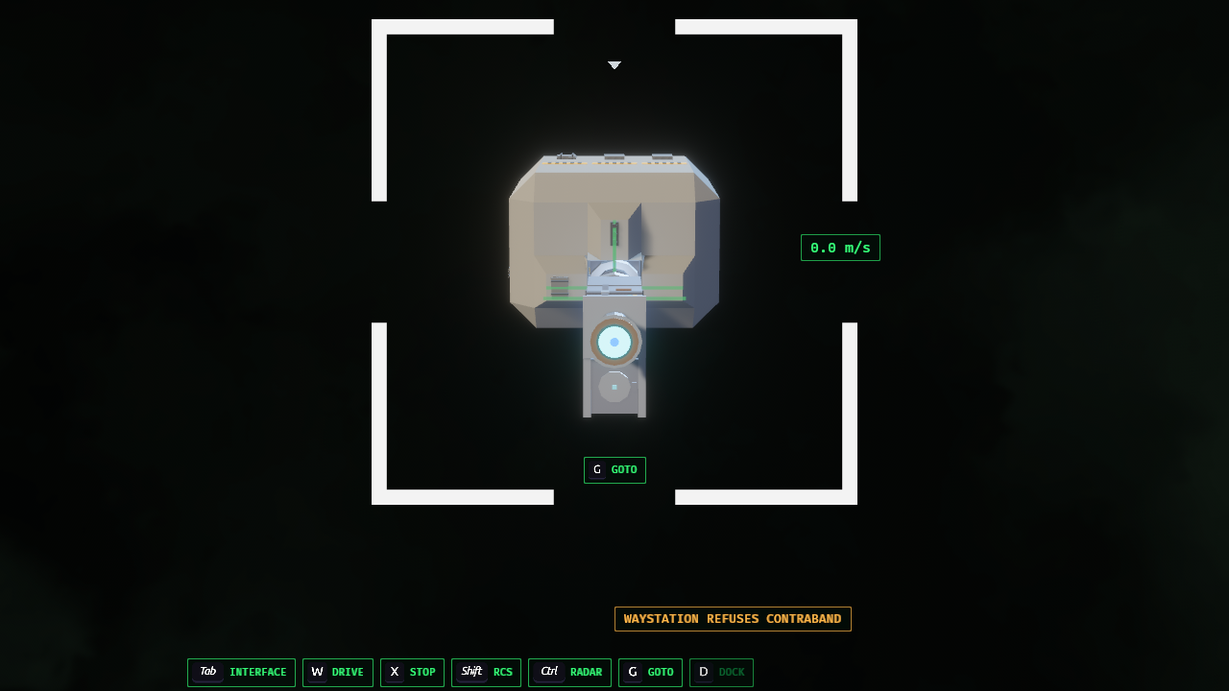
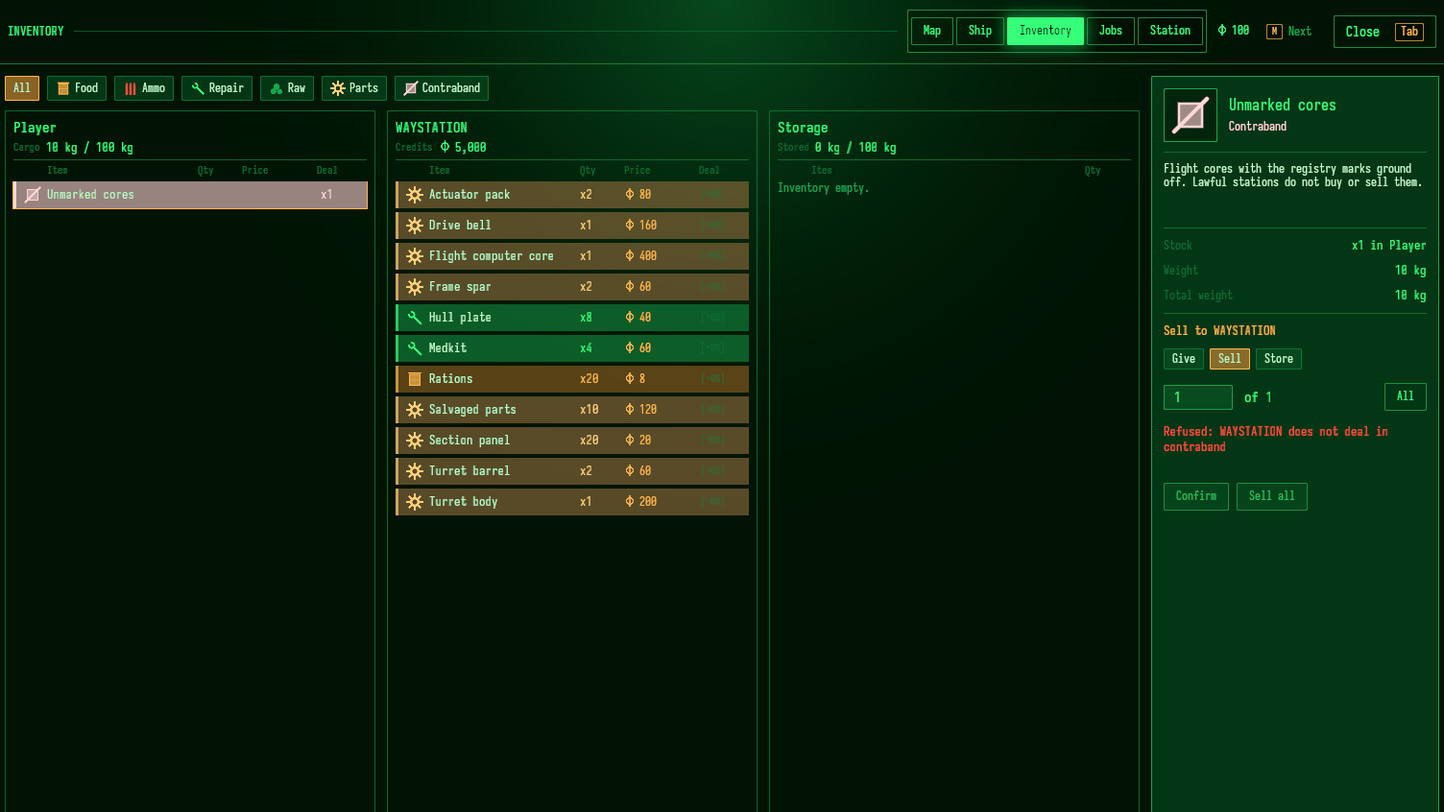
Document contraband as a restricted trade good
The wiki, the creator reference, docs/sections.md and the v0.18.0 post
now state the rule: every station docks you, and a lawful station's
market does not buy or sell contraband. The changelog keeps one
Gameplay entry and one Modding entry for it.

The news still is a cut of the refused Sell form that
system_contraband_trade shoots, and its CUTS row names the new source
and window.

diff --git a/scripts/gen-web-screenshots.py b/scripts/gen-web-screenshots.py
@@ -316,7 +316,7 @@ CUTS = [
     ("news-0180-key-row.png",         "key-hints-weapons.png",        "screenshot_key_hints",   (460, 432, 1152, 648)),
     ("news-0180-pad-row.png",         "key-hints-pad-weapons.png",    "screenshot_key_hints",   (505, 432, 1152, 648)),
     ("news-0180-refine.png",          "station-refine-form.png",      "system_station_refine",  (610, 92, 1104, 621)),
-    ("news-0180-contraband.png",      "contraband-dock-refusal.png",  "system_contraband_dock", (320, 350, 1280, 720)),
+    ("news-0180-contraband.png",      "contraband-trade-refusal.png", "system_contraband_trade", (208, 18, 1504, 846)),
     ("news-0180-station-control.png", "job-recover-control.png",      "system_job_recover",     (0, 360, 1280, 720)),
     ("news-0180-no-medkit.png",       "job-distress-no-medkit.png",   "system_job_distress",    (320, 360, 1280, 720)),
     ("news-0180-second-tier.png",     "station-swap-intake-card.png", "system_station_swap_intake", (0, 0, 1920, 1080)),

diff --git a/web/src/wiki/hud.md b/web/src/wiki/hud.md
@@ -63,7 +63,7 @@ The flight instruments sit around the ship, not in a status bar:
 - **ORBIT ring and radius spoke** - while you hold an orbit, a world-space ring marks the orbit plane and a thin spoke runs from the well to your ship with the current radius.
 - **Predicted path, GOTO guide and flip gate** - while GOTO or STOP flies, a thin cyan line runs ahead of your ship along the path the autopilot will fly. The game finds it by flying the autopilot's own controls ahead of your ship for up to 30 seconds, with the pull of the dominant gravity well, so the line can curve - and, on a GOTO routing around a rock or planetoid, bend around the bodies the forecast saw sitting in the way when it started: it is the route the computer will actually fly, not a plain straight-line guess. It stops where the leg ends or 30 seconds out, whichever comes first. GOTO adds a dim straight guide from the end of that curve to where the target is now, so a long leg still points at its target. The guide is still not a forecast: it only points at the target, and it never bends. It shows as soon as GOTO engages, from your ship, before the first forecast is ready. A ring and a `FLIP <n>s` countdown stand on the curve where the brake flip starts - the FINAL leg's own flip; swinging wide of a body on the way there never spends it. They go once you reach the flip or the brake starts. On a GOTO they stay gone for the rest of that order, even if the autopilot plans a new flip; a new GOTO, also to the same target, shows them again. The curve hides while the target changes course or spin or a gravity well moves, and while you are docked; the guide stays. It returns with a new forecast once the target holds its new course. Both clear when the autopilot lets go.
 - **Keybind dock** - a row of icon chips along the bottom of the screen that shows the keys that apply right now and nothing else. Five core chips always sit left of the screen's centre line while you fly: INTERFACE (<kbd>Tab</kbd>), DRIVE (<kbd>W</kbd>), STOP, RCS and RADAR. The rest join right of the centre line, in this order, only while there is something for them to do: GOTO while you hold a travel lock (not your docked partner), ORBIT near a gravity well or while an orbit flies, CANCEL while the autopilot is engaged, DOCK while your lock carries a docking port or you are docked, HELM (<kbd>H</kbd>) while you are docked, MINE while your ship carries a bound mining section, AIM (raise weapons) while your ship carries a turret, torpedo bay or railgun, and FIRE, TORPEDO and RAILGUN while the weapons are hot and that section has a key. A core chip does not move when a chip joins the row; the new chip pushes only the chips right of it. Only when the chips right of the centre line need more than half the screen does the whole row move left, so the screen edge cuts no chip. A shown chip you cannot press right now draws dark: DOCK through the approach until the port pair lines up, or while a station refuses; RCS while a scenario withholds it or the magazine is empty. <kbd>]</kbd> and <kbd>[</kbd> step the component lock (the wheel too, weapons raised) and <kbd>Q</kbd>/<kbd>E</kbd> roll; the dock has no chip for either. Docked to a pair you do not fly, the mode chip reads NEUTRAL, HELM is lit, and the verbs it would give back stay on the dock, dark; while you hold the helm the HELM chip is inverted. While the game cannot measure the pair (`HELM FAULT`) or a living station holds the helm (`STATION HELM`), the HELM chip stays dark and the mode chip says why, unless you hold the helm and can still hand it back; the blocked verbs stay dark until that ends. Each chip shows the real KEYCAP for the key that drives it plus the verb word, in full phosphor - or inverted while that verb is what the ship is doing (an engaged ORBIT stays inverted even though you can no longer start one; DRIVE while you hold the burn; AIM while the weapons are hot; FIRE while a trigger is down). The keycaps follow your hands: after a gamepad button or a stick push the row draws the gamepad buttons, and after a key or a mouse button it draws the keys again. On a gamepad DOCK and HELM are chords, so their chips draw two caps: the RCS button, then the GOTO or ORBIT button. FIRE, TORPEDO, RAILGUN and MINE draw the key or button you gave that section in the Ship pane; a section with no gamepad binding keeps its key. While you hold the RCS key (<kbd>Shift</kbd>) the RCS chip is inverted and the STOP chip reads MATCH, because <kbd>X</kbd> is then the MATCH chord; it is dark when MATCH would refuse (no travel lock, no RCS, an empty magazine). The chip names what the key does now: with <kbd>Shift</kbd> up it reads STOP, also while a MATCH flies, because plain <kbd>X</kbd> then brakes and replaces the match; it is inverted only while its own word flies, so MATCH inverts while a match flies and <kbd>Shift</kbd> is held. A chip pulses gold when a scenario wants you to use it, and a chip the scenario points at stays on the row even before it applies, dark - that is how a tutorial points at a key before you can press it. The anchored **verb cues** are the same chip parked on the thing you would act on - the ORBIT keycap on a gravity well, the GOTO keycap on your aim lock.
-- **HUD notice** - a one-line amber box above the dock, its left edge on the screen midline, clear of the comms panel. A station's dock refusal (`<NAME> REFUSES DOCKING`, `<NAME> REFUSES CONTRABAND`, `<NAME> DOCK OCCUPIED`) posts here once, holds for four seconds of game time (it pauses with the game), then fades, with one interface cue. A held job whose work is done posts `JOB-1 done: hand in at STN-1` the moment it is done, naming the poster by its chart code and no credits: the reward is paid at the hand-in. A dock with a distress caller with no medkit in your hold posts `NO MEDKIT ABOARD`, once per dock. A refused or cut-short [MATCH](../flight-autopilot/#the-autopilot-flies-the-hull) posts why, such as `MATCH: NO TARGET` or `MATCH: RCS EMPTY`. A DOCK press that does nothing posts why, such as `DOCK: NO LOCK` or `DOCK: TOO FAR` (see [Docking](../sections/docking/#who-lets-you-dock)). In a generated world, crossing into another sector posts its coordinate as the [chart](../interface/#the-map) labels it, `SECTOR (1, 0, 0)`, with `- FIRST VISIT` added for a sector your chart had not recorded; a New Game or a Load starts you in a sector and posts nothing. One slot, no queue: a new line replaces the one showing. The notice holds its place: a GOTO or ORBIT cue under it moves aside until the notice ends.
+- **HUD notice** - a one-line amber box above the dock, its left edge on the screen midline, clear of the comms panel. A station's dock refusal (`<NAME> REFUSES DOCKING`, `<NAME> DOCK OCCUPIED`) posts here once, holds for four seconds of game time (it pauses with the game), then fades, with one interface cue. A held job whose work is done posts `JOB-1 done: hand in at STN-1` the moment it is done, naming the poster by its chart code and no credits: the reward is paid at the hand-in. A dock with a distress caller with no medkit in your hold posts `NO MEDKIT ABOARD`, once per dock. A refused or cut-short [MATCH](../flight-autopilot/#the-autopilot-flies-the-hull) posts why, such as `MATCH: NO TARGET` or `MATCH: RCS EMPTY`. A DOCK press that does nothing posts why, such as `DOCK: NO LOCK` or `DOCK: TOO FAR` (see [Docking](../sections/docking/#who-lets-you-dock)). In a generated world, crossing into another sector posts its coordinate as the [chart](../interface/#the-map) labels it, `SECTOR (1, 0, 0)`, with `- FIRST VISIT` added for a sector your chart had not recorded; a New Game or a Load starts you in a sector and posts nothing. One slot, no queue: a new line replaces the one showing. The notice holds its place: a GOTO or ORBIT cue under it moves aside until the notice ends.
 
 <figure class="figure">
     <!-- Capture: assets/wiki-hud-shell.png -->

diff --git a/web/src/wiki/interface.md b/web/src/wiki/interface.md
@@ -323,7 +323,7 @@ Docked with a derelict wreck or a neutralized ship, the Inventory pane shows a s
      in crates/nova_scenario/src/objects/ship_design.rs.
      Take and Give: crates/nova_gameplay/src/inventory.rs `plan_item_transfer`;
      Take credits: `plan_credit_take`, applied by
-     `apply_credit_take_commands`; Take all: `apply_take_all_commands`; Buy and Sell: `plan_item_trade`, prices
+     `apply_credit_take_commands`; Take all: `apply_take_all_commands`; Buy and Sell: `plan_item_trade` (a lawful market: `market_deals_in`), prices
      `ItemPrice::buy_cr` and `ItemPrice::sell_cr` of `ItemDesign::reference_price`, balance `ShipCredits` from
      `SpaceshipConfig::credits`; Refine: `plan_item_refine` over `ItemDesign::refine`,
      the recipe `GameItems::refined_from`, the gate `REFINE_ADVANCEMENT` in
@@ -343,7 +343,7 @@ The Inventory pane lists what your ship carries in the left column and, while yo
 | **Repair** | Material a repair or a rescue consumes: hull plates and medkits. |
 | **Raw** | Mined or salvaged bulk material. |
 | **Parts** | Scavenged objects for a story, an objective or trade. |
-| **Contraband** | Goods a lawful station refuses a dock over. See [Docking](../sections/docking/#who-lets-you-dock). |
+| **Contraband** | Goods a lawful station's market does not buy or sell. See [Buy and sell](#buy-and-sell). |
 
 Click an item to inspect it, or step through the shown items with <kbd>[</kbd> / <kbd>]</kbd>, your column first; a step opens the same form a click does. The inspector shows its category, what it is, how many the selected ship carries and the weight of one item. A PDC round weighs 0.2 kg. While a Take, Give, Buy, Sell or Jettison is open, **Total weight** shows the weight of the quantity you chose: 2 hull plates read 20 kg however many you carry. The description keeps four lines, so the rows under it stay in place as you change items. A longer one is cut off with an `I Full text` cue: point at it, or press <kbd>I</kbd>, to read all of it. <kbd>I</kbd> again, or another item, closes it. You can rebind <kbd>I</kbd> as **Item Details** in **Settings > Controls > INVENTORY**.
 
@@ -388,6 +388,8 @@ count pays its share, rounded up for a Buy and down for a Sell.
 | Unmarked cores | 300 cr | 240 cr |
 
 A living generated station or ship computes its own prices from the reference when you trade: its stock against the stock it started with (scarce goods cost and pay more, a glut less), the type of the cluster it stands in (ore is cheap where asteroids are many and dear among planets), and what its civilization's ships do. While the partner trades, each row shows the **Price** of one item, what the partner pays for yours and asks for its own, with a **Deal** badge of the percent off the reference: green when it favours you (a bid over the reference, an ask under it), amber when not. The PDC round's row shows the price of its lot of 100, as `10 cr / 100`. Select an item and the inspector shows the **Reference**, **Pays** and **Asks** with the same percent, each as `4 cr / 3 cr` for a lot of one or `10 cr / 100 | 7 cr / 100` for the PDC round's lot of 100, and the **Scarcity**, **Cluster** and **Civilization** factors that made it, with their **Total**, marked `clamped` when the price hit its limit. Under the columns, a generated trader's **MARKET** strip names the three items it pays most over the reference for and the three it sells cheapest among what it holds, its restock gap (the item furthest under its target, a meter of stock against target, and the play minutes until it is full) and, while its civilization refuses you, a red **REFUSED** badge with the minutes left or none when only a settlement ends it. The interface title row shows the play clock while a world runs. A station or ship placed by a scenario deals at the reference price and shows no strip. A Buy pays the ask and a Sell earns the bid, each as its share of the item's lot, rounded up for a Buy and down for a Sell; a Sell that would earn 0 cr is refused, and otherwise selling back what you bought loses credits. At a station you [own](#buying-a-station), a Buy pays the bid instead, rounded up the same way. While the form is open it shows the price and your balance after, for example `Price 20 cr  Balance 1,980 cr`. **Confirm** moves the items and the credits at once, and **Buy all** or **Sell all** beside it confirms the whole stack in one click, disabled while that trade would be refused; and the note line reads `BOUGHT x5 Stone ore -20 cr` or `SOLD x10 Stone ore +30 cr`. A refused trade changes nothing and keeps the form open: `Refused: enter a quantity`, `Refused: quantity is zero`, `Refused: sale pays 0 cr`, `Refused: only 2 Stone ore in Light Freighter`, `Refused: Line Warship has room for 30 kg more`, `Refused: Light Freighter has only 20 cr`, `Refused: Light Freighter cannot hold more credits`, `Refused: Light Freighter does not trade`, or `Refused: not docked`. A trade never splits to fit the hold or the credits.
+
+About half the civilizations of a generated world are **lawful**. The market of a living lawful station does not deal in contraband: it buys none and sells none. A Sell of the item there reads `Refused: <station> does not deal in contraband` with **Confirm** disabled, the item's row and inspector show no price, and the **MARKET** strip does not name it. The station still lets you dock with the item in your hold and [stores](#store-and-withdraw) it. Sell it at a station that is not lawful. A station you own, a dead station and a station placed by a scenario are not lawful.
 
 ### Store and withdraw
 

diff --git a/web/src/create/stations.md b/web/src/create/stations.md
@@ -121,8 +121,8 @@ differs is who the station lets in and who flies the pair.
 
 | rule | what happens |
 |---|---|
-| admission | a living station reads its `allegiance`: `Enemy` refuses every dock, and any side refuses a ship it is hostile to (a `Player` station and an Enemy-flagged ship, or a station answering that ship's fire). A generated station's side is its civilization's [stance](#civilization-stances) to you, so an Enemy civilization's stations refuse you. A living generated station of a lawful civilization then refuses a ship whose hold carries an item of category `Contraband`, until the item leaves the hold; the seed draws half the civilizations lawful, and an authored station is never lawful. A derelict admits whatever its side; it is a hull to loot. A station you [own](#buy-the-station) admits you whatever your side and whatever you carry |
-| the refusal | while the travel lock is on a station that refuses, the HUD posts a notice (`<NAME> REFUSES DOCKING`, or `<NAME> REFUSES CONTRABAND` for a lawful station, with the station object's `name`) once; the mode chip does not show it, the DOCK chip draws dim in its slot, and `DOCK` builds nothing |
+| admission | a living station reads its `allegiance`: `Enemy` refuses every dock, and any side refuses a ship it is hostile to (a `Player` station and an Enemy-flagged ship, or a station answering that ship's fire). A generated station's side is its civilization's [stance](#civilization-stances) to you, so an Enemy civilization's stations refuse you. No station reads the hold of the ship that asks. A derelict admits whatever its side; it is a hull to loot. A station you [own](#buy-the-station) admits you whatever your side |
+| the refusal | while the travel lock is on a station that refuses, the HUD posts a notice (`<NAME> REFUSES DOCKING`, with the station object's `name`) once; the mode chip does not show it, the DOCK chip draws dim in its slot, and `DOCK` builds nothing |
 | one ship per port | a ship holds one connection; a station holds one per docking port. A ship docks while any port is free; once every port is held the next ship meets `<NAME> DOCK OCCUPIED` until one lets go. The station and every ship docked at it move as one body |
 | a living station's helm | the station owns the helm of everything docked at it. `HELM` is refused, the HUD reads `STATION HELM`, and each docked ship's drive, RCS and maneuvers are held. The station has no thruster, so the assembly never moves; its bridge holds it level on the station's parked attitude |
 | a dead station's helm | the docked player holds the helm from the capture, as after `HELM` on a ship, because the dead station's bridge is inactive (derelict or neutralized alike), and gets it the moment a living station it is docked to turns dead. The player's burn tows the station and every ship docked at it |
@@ -143,6 +143,7 @@ not a derelict, and its `services` list the service.
 | rule | what happens |
 |---|---|
 | trade | with `Trade`, the station's column lists its hold: the station's row opens Buy, the player's row Sell, against both purses. A station a scenario places deals at the item's reference `ask_cr` and `bid_cr`; a generated one at its computed price, see [Price tables](../prices/). Without `Trade`, Buy and Sell refuse with `<NAME> does not trade` |
+| a lawful market | the seed draws half the civilizations of a generated world lawful. The market of a living generated station of a lawful civilization does not deal in an item of category `Contraband`: Buy and Sell refuse with `<NAME> does not deal in contraband`, the station stocks none, and a visiting trader trades none there and posts no job for it. Store and Withdraw take the item. A station a scenario places, a derelict and a station you own are never lawful |
 | storage | with `Storage`, a third column lists the station's storage and its used mass against `storage_cap_g`. The player's row opens Store, the storage row Withdraw. No credits move |
 | one store | a station keeps one storage, for the player alone. Nothing else stores or takes from it |
 | refusals | Store and Withdraw refuse in this order, on the form with Confirm disabled, and on the note line: not docked, no `Storage` service, unknown item, no quantity, quantity zero, fewer items than the quantity, then `storage full, <N> kg free` for a Store or `<SHIP> has room for <N> more` for a Withdraw |

diff --git a/web/src/news/0.18.0.md b/web/src/news/0.18.0.md
@@ -9,11 +9,11 @@ accepted but not a job finished.
 
 v0.18.0 makes the world answer. A clamp latches with a sound, a light and
 `DOCKED <NAME>`. Stations refine ore into alloy plate, and the plate builds a
-second tier of sections. A rescue spends a medkit. Lawful stations turn away
-contraband. Station Control speaks about your first job. The key row shows
-only the keys that apply, and a gamepad can dock. And scenarios can read what
-an event carries, follow a job to its end, and pay, give, take, post jobs and
-set stances.
+second tier of sections. A rescue spends a medkit. Lawful stations do not
+trade contraband. Station Control speaks about your first job. The key row
+shows only the keys that apply, and a gamepad can dock. And scenarios can read
+what an event carries, follow a job to its end, and pay, give, take, post jobs
+and set stances.
 
 <figure class="figure">
     <!-- Capture: assets/loops/news-0180-dock-clamp.webm -->
@@ -164,12 +164,12 @@ job's reward covers one.
 
 ### Contraband and lawful stations
 
-Half the civilizations of a generated world are now **lawful**. A living
-lawful station refuses a dock while your hold carries a Contraband item, and
-the HUD says so when your travel lock settles on it:
-`<NAME> REFUSES CONTRABAND`. The station reads your hold, not your past. Sell
-the item at a station that is not lawful, or jettison it, and the same station
-lets you in. A station you own never refuses for contraband.
+Half the civilizations of a generated world are now **lawful**. The market of
+a living lawful station does not deal in Contraband: it buys none and sells
+none. Open a Sell of the item there and the form reads
+`Refused: <station> does not deal in contraband`, with Confirm disabled. The
+station still lets you dock with the item in your hold, and its storage keeps
+it. Sell the item at a station that is not lawful.
 
 The base game has one such item, **Unmarked cores**: 10 kg, with a 300 cr ask
 and a 240 cr bid. Scavengers deal them. Half the intact scavenger ships carry
@@ -180,9 +180,9 @@ one unit.
     <div class="figure__placeholder">
         <span class="figure__placeholder-tag">Image</span>
         <span class="figure__placeholder-name">assets/news-0180-contraband.png</span>
-        <span class="figure__placeholder-note">A small test hull parked before a waystation, with the station as its travel lock: the HUD notice reads WAYSTATION REFUSES CONTRABAND and the DOCK chip on the key row is dark.</span>
+        <span class="figure__placeholder-note">The Inventory pane of a small test hull docked at a waystation, with the unmarked cores selected: the row shows no price, the Sell form reads Refused: WAYSTATION does not deal in contraband in red, and the Confirm and Sell all buttons are dim.</span>
     </div>
-    <figcaption class="figure__caption">Refused for what you carry. This is a test rig: the walk marks the waystation lawful by hand and puts one unmarked core in the hold. In a generated world the mark comes from the station's civilization.</figcaption>
+    <figcaption class="figure__caption">Docked, and no sale. This is a test rig: the walk marks the waystation lawful by hand and puts one unmarked core in the hold. In a generated world the mark comes from the station's civilization.</figcaption>
 </figure>
 
 ## The ship tells you
@@ -489,7 +489,8 @@ changes break content that v0.17.0 accepted.
   Lint refuses a recipe whose inputs and fee cost less than its output's bid.
   The authored waystation refines, for a scenario that spawns it; a New Game
   world does not. See [Refine](/create/stations/#refine).
-- **Contraband is a category.** Item `category` takes `Contraband`. Base adds
+- **Contraband is a category.** Item `category` takes `Contraband`: the
+  market of a lawful generated station does not buy or sell it. Base adds
   `UnmarkedCores` and a `Scavenger` `Contraband` price rule; a pack needs no
   new rule of its own. An authored station is never lawful.
 

diff --git a/web/src/wiki/sections/docking.md b/web/src/wiki/sections/docking.md
@@ -63,9 +63,9 @@ The geometry is only half of it: the DOCK chip also goes dark, and a request ref
 
 A ship holds one dock at a time. A station holds one ship per docking port: you can dock while any of its ports is free, and once every port is held the HUD posts `<NAME> DOCK OCCUPIED` as a notice. Everything docked at a station turns with it as one body, held level by the station's bridge. Every port of a station wears a beacon: a cold light that breathes slowly and burns amber while a ship holds that port. A dead station keeps its beacons dark. The beacons go out with the **Flash lights** lever at Off (the Low preset); see [Settings](../../settings/#graphics-quality).
 
-Three refusals name a station. The HUD posts each once, when your travel lock settles on the station, not when you press the key: `<NAME> REFUSES DOCKING` for a living station on the Enemy side or hostile to you, `<NAME> REFUSES CONTRABAND` for a living lawful station while your hold carries a Contraband item, and `<NAME> DOCK OCCUPIED` for a station with every live port held, even one you own.
+Two refusals name a station. The HUD posts each once, when your travel lock settles on the station, not when you press the key: `<NAME> REFUSES DOCKING` for a living station on the Enemy side or hostile to you, and `<NAME> DOCK OCCUPIED` for a station with every live port held, even one you own.
 
-About half the civilizations of a generated world are lawful. A lawful station reads your hold, not your past: sell the item at a station that is not lawful, or jettison it, and the same station lets you in. A station you own and a dead station never refuse for contraband. A station placed by a scenario is not lawful.
+No station refuses a dock for what you carry. A lawful station lets you dock with contraband in your hold; only its [market](../../interface/#buy-and-sell) refuses the item.
 
 A press of the DOCK key that does nothing posts why, once per press, in the HUD notice. `DOCK: NO LOCK` means you have no travel lock. `DOCK: NO FREE PORT` means the two hulls have no pair of free live ports, which is also what a ship that already holds its one dock gives. Otherwise the game reads the nearest port pair and names the first check it fails: `DOCK: TOO FAR` for the gap, `DOCK: NOT FACING` for the facing, `DOCK: TOO FAST` for relative speed or relative spin. A press stays silent for a target that refuses you, so a ship that refuses you only keeps the chip dark, and a station has said so at the lock. It also stays silent with DOCK withheld, and on a lock that is no ship or station, such as an asteroid or a planet.
 

diff --git a/CHANGELOG.md b/CHANGELOG.md
@@ -19,7 +19,7 @@ does NOT get an entry. Another page that states a different rule is wrong.
 
 - Stations that offer Refine turn 2 iron ore, 1 carbon ore and a 30 cr fee into an alloy plate from the Inventory pane. The waystation refines; generated stations do from advancement 0.25.
 - A distress rescue now takes one Medkit from your hold at the dock with the caller. With none aboard the HUD reads `NO MEDKIT ABOARD` and the call stays open. Stations sell medkits.
-- Half the civilizations of a generated world are lawful: their stations refuse a dock while your hold carries Contraband, on the HUD as `<NAME> REFUSES CONTRABAND`. Scavengers deal unmarked cores.
+- Half the civilizations of a generated world are lawful: their station markets buy and sell no Contraband, and the trade form says so. They still dock you. Scavengers deal unmarked cores.
 - Gamepad: L3 + Y docks and L3 + A takes the helm, two caps on the key row. New hulls put torpedoes on LB, the railgun on View and mining on RT; hot weapons turn off pad free look and HUD toggle.
 
 ### Ships & Sections
@@ -41,7 +41,7 @@ does NOT get an entry. Another page that states a different rule is wrong.
 
 - `Item` gains optional `refine: Some((inputs, fee_cr))` and station `services` take `Refine`; lint refuses a recipe cheaper than its output's bid. `OnCreditsChanged` gains cause `Refine`.
 - **(breaking)** `Medkit` is now a base role item (`Repair`, 2 kg, 60/45 cr) that a distress rescue spends. A mod item with the id `Medkit` replaces it and must keep category `Repair`.
-- Item `category` takes `Contraband`, refused at a lawful generated station's dock. Base adds `UnmarkedCores` (10 kg, 300/240 cr) and a `Scavenger` `Contraband` price rule; a pack needs no new rule.
+- Item `category` takes `Contraband`: a lawful generated station's market does not buy or sell it. Base adds `UnmarkedCores` (10 kg, 300/240 cr) and a `Scavenger` `Contraband` price rule.
 - `DockingSectionConfig` gains optional `clamp_sound` and `release_sound`, played once at the port that captured or let go; the base port authors `dock_clamp.wav` and `dock_release.wav`.
 - `RailgunSectionConfig` gains optional `impact_sound`, played where the slug meets its first body in place of the impact table's Pierce row; the base lance authors `railgun_impact.wav`.
 - Scenario expressions read the firing event's payload as `event.<field>` (`event.price_cr > 100`), in a handler's filters and its own `VariableSet` and `TimerStart`; lint refuses an unknown field.

diff --git a/docs/sections.md b/docs/sections.md
@@ -854,8 +854,8 @@ without the hulls touching.
 read by the DOCK chip and by the request. A ship target refuses with
 `DockRefusalType::Combat` while Hostile, Enemy, answering fire or fighting
 (a neutralized target admits). A station target (`StationMarker`) answers by
-`station_admission(allegiance, derelict, occupied, owned, hostile,
-contraband)`, in that order: `StationOccupied` while every live port on its root is held (a held
+`station_admission(allegiance, derelict, occupied, owned, hostile)`, in
+that order: `StationOccupied` while every live port on its root is held (a held
 port is no candidate in the port search; this names the reason so the HUD
 can say it); admitted for a station the player owns (`OwnedStationMarker`)
 or a derelict, on any side; `EnemyStation` for a living station on the Enemy
@@ -863,16 +863,14 @@ side (a generated station's side is its civilization's effective stance to
 the player, written every frame by `nova_world_base`'s
 `sync_civilization_sides`); `HostileStation` for a living station the ship
 is hostile to by `ship_relation` (a Player station and an Enemy-flagged
-ship, or a station answering the ship's fire); `Contraband` for a living
-station with `LawfulStationMarker` asked by a ship whose `ShipInventory`
-carries an `ItemCategoryType::Contraband` item (`nova_world_base`'s
-`sync_lawful_stations` derives the marker every frame from the
-civilization's seeded `lawful` draw, so nothing saves it); and admitted
-otherwise. `DockAdmission::turns_away` is the three refusals that waiting
-for a port does not change: the chart ring and a failed AI Dock order read
-it.
+ship, or a station answering the ship's fire); and admitted otherwise. No
+station reads the hold of the ship that asks: a lawful station
+(`LawfulStationMarker`) admits a ship that carries contraband, and its
+market refuses the item (see `market_deals_in` in `nova_gameplay`).
+`DockAdmission::turns_away` is the two refusals that waiting for a port
+does not change: the chart ring and a failed AI Dock order read it.
 `FlightVerbHints::dock_refusal` carries a station's line (`<NAME> REFUSES
-DOCKING`, `<NAME> REFUSES CONTRABAND`, `<NAME> DOCK OCCUPIED`) while the travel lock is on it; the HUD
+DOCKING`, `<NAME> DOCK OCCUPIED`) while the travel lock is on it; the HUD
 posts it once as a notice (`hud_notice`), not on the mode chip, and the DOCK
 chip draws dim. A ship's refusal stays the dark chip.
 

diff --git a/web/src/create/objects.md b/web/src/create/objects.md
@@ -342,16 +342,19 @@ See [Refine](../stations/#refine) for the rule and
 [Content files](../mod-files/#content-files) for the `refine` field.
 
 Base ships one `Contraband` item. It is not a role id either: a mod may add
-its own `Contraband` items, and every one is refused the same way.
+its own `Contraband` items, and a lawful market refuses every one the same
+way.
 
 | Item | Mass | Category | Ask | Bid |
 | --- | --- | --- | --- | --- |
 | `UnmarkedCores` | 10 kg | Contraband | 300 | 240 |
 
-A living generated station of a lawful civilization refuses a dock to a ship
-whose hold carries any `Contraband` item. No station stocks one and no job
-board asks for one. The `base/salvage_broker` profile sells them, and an
-intact generated scavenger carries one unit in half its holds.
+The market of a living generated station of a lawful civilization does not
+buy or sell a `Contraband` item; the station still docks the ship that
+carries one and stores the item. A station that is not lawful trades it like
+any other item. No station stocks one and no job board asks for one. The
+`base/salvage_broker` profile sells them, and an intact generated scavenger
+carries one unit in half its holds.
 
 `PdcRound` feeds both Kinetic and Pierce turret mounts - the mount decides the
 round's damage type, not the item. `Torpedo` feeds every torpedo bay type,

diff --git a/web/src/create/trade-profiles.md b/web/src/create/trade-profiles.md
@@ -56,9 +56,11 @@ A visit job is `Procure(item, count, reward_cr)`: bring `count` units of
 `reward_cr` are above 0.
 
 A ship whose role no profile names never visits. A ship visits only a
-station that admits it, so one that carries a `Contraband` item visits no
-lawful station: it trades where the item is not refused, and a profile that
-sells the item, like `base/salvage_broker`, clears its hold there.
+station that admits it. A lawful station admits a ship that carries a
+`Contraband` item, but its market does not deal in the item: the visit
+trades none of it there and posts no `Procure` job for it. A profile that
+sells the item, like `base/salvage_broker`, clears its hold at a station
+that is not lawful.
 
 ## Overlay and lint
 

diff --git a/web/src/create/mod-files.md b/web/src/create/mod-files.md
@@ -260,7 +260,7 @@ twelve item kinds:
 An `Item` adds a new entry to the item catalog, or replaces one your mod
 depends on. Every field but `refine` is required: `id`, `name` and `about` are not blank;
 `category` is one of `Raw`, `Repair`, `Ammo`, `Food`, `Parts`, `Contraband`;
-a living lawful station refuses a dock to a ship that carries a `Contraband`
+the market of a living lawful station does not buy or sell a `Contraband`
 item, see [Stations](../stations/). `mass_g` is
 above 0; `price_lot` is above 0; `bid_cr` is at most `ask_cr`. `ask_cr` and
 `bid_cr` price one lot of `price_lot` items, not one item: a trade pays its
